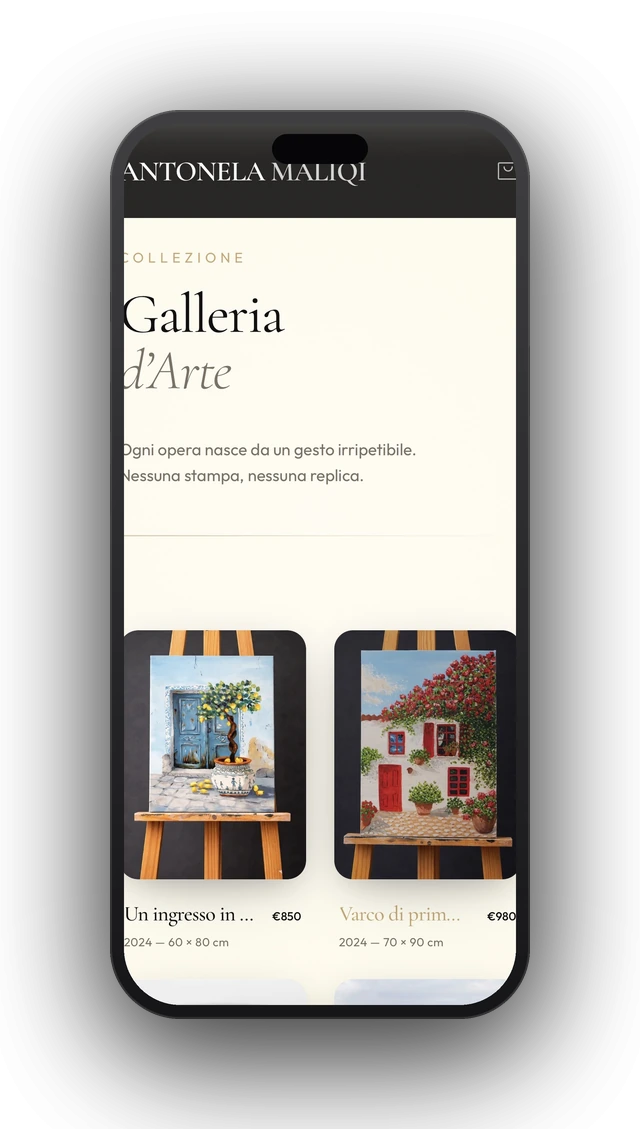
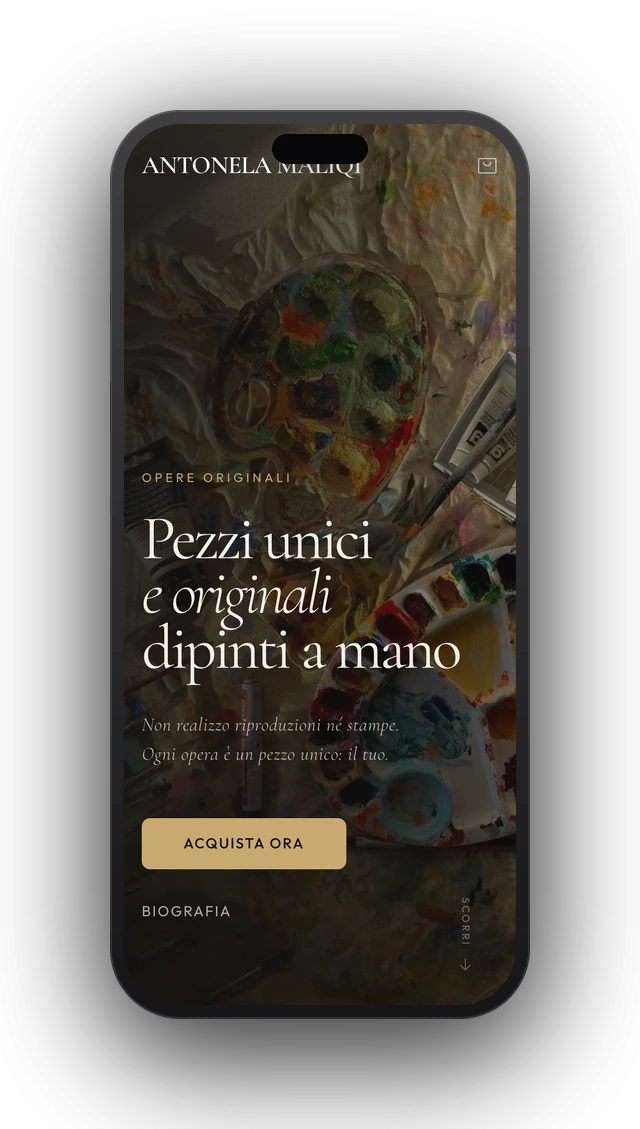
feat(mockups): regenerate from fresh Playwright screenshots of live sites
The previous mockups composed cropped library images, which did not match
the actual project sites. Now each mockup contains a real, current
viewport screenshot captured from the live URL at the device's exact
aspect ratio, then dropped into a Pillow-rendered Apple-style frame.

- scripts/mockups/screenshots.mjs (Playwright/Chromium): captures
  Where2Beach (390x844 mobile), FLOW Pilates Studio Bologna (1440x900
  desktop), Smoky Candle (820x1180 tablet) and Antonela (390x844 mobile)
  at @2x DPR. Dismisses cookie/consent banners and hides scrollbars
  before shooting. Sources land in public/mockups/src/.
- scripts/mockups/generate.py: switched source dir from public/images to
  public/mockups/src so the generator now consumes the fresh captures.
- public/mockups/*.webp regenerated. The image inside each frame now
  shows the real brand identity instead of a generic crop.

diff --git a/scripts/mockups/generate.py b/scripts/mockups/generate.py
@@ -10,7 +10,8 @@ from pathlib import Path
 from PIL import Image, ImageDraw, ImageFilter
 
 ROOT = Path(__file__).resolve().parents[2]
-SRC_DIR = ROOT / "public" / "images"
+# Fresh per-device-aspect screenshots captured by screenshots.mjs.
+SRC_DIR = ROOT / "public" / "mockups" / "src"
 OUT_DIR = ROOT / "public" / "mockups"
 OUT_DIR.mkdir(parents=True, exist_ok=True)
 
@@ -316,9 +317,9 @@ def make_ipad(shot_path: Path, out_path: Path, width: int = 800) -> None:
 def main():
     print("Generating mockups...")
     make_iphone(SRC_DIR / "where2beach.png", OUT_DIR / "iphone-where2beach.webp", width=560)
-    make_macbook(SRC_DIR / "flow.jpg",        OUT_DIR / "macbook-flow.webp",       width=1400)
-    make_ipad(SRC_DIR / "smokycandle.jpg",    OUT_DIR / "ipad-smoky.webp",         width=780)
-    make_iphone(SRC_DIR / "antonela.jpg",     OUT_DIR / "iphone-antonela.webp",    width=420)
+    make_macbook(SRC_DIR / "flow.png",       OUT_DIR / "macbook-flow.webp",       width=1400)
+    make_ipad(SRC_DIR / "smoky.png",         OUT_DIR / "ipad-smoky.webp",         width=780)
+    make_iphone(SRC_DIR / "antonela.png",    OUT_DIR / "iphone-antonela.webp",    width=420)
     print("Done.")
 
 
